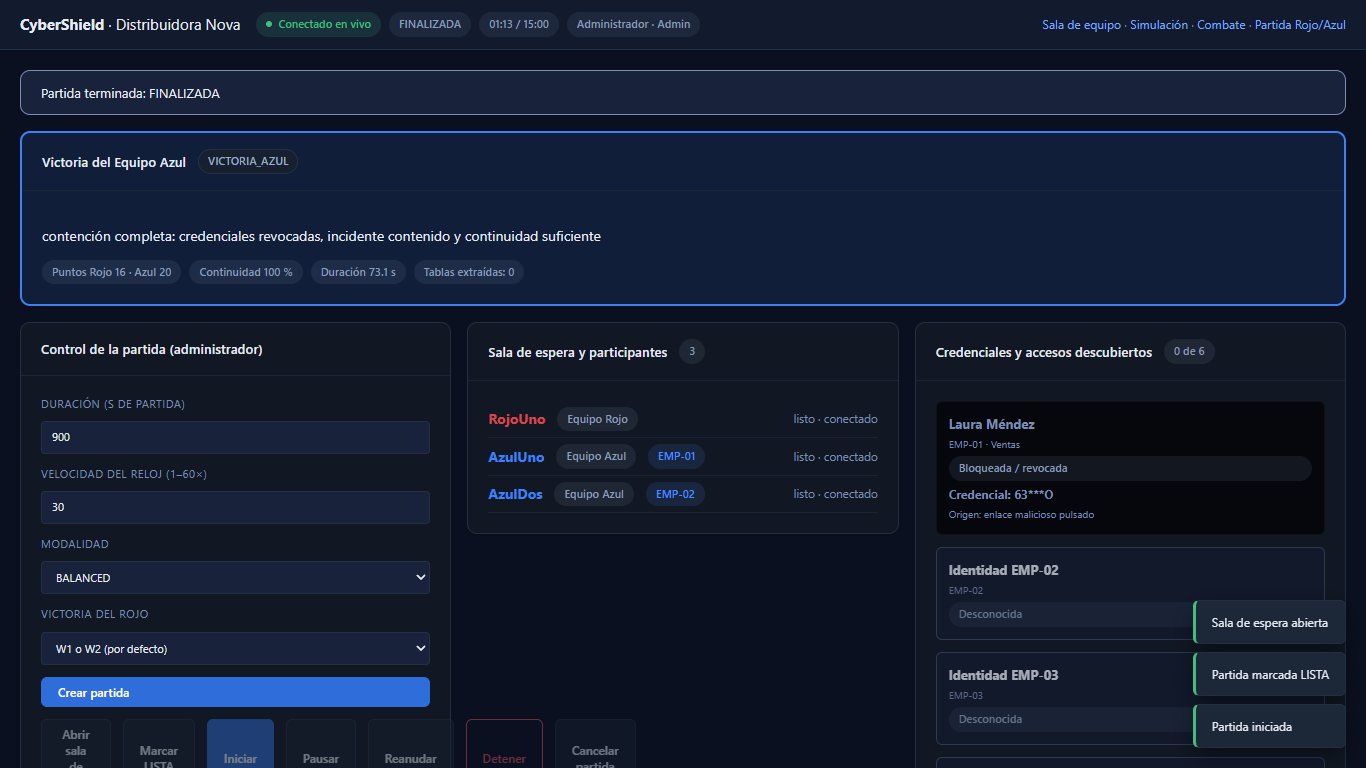
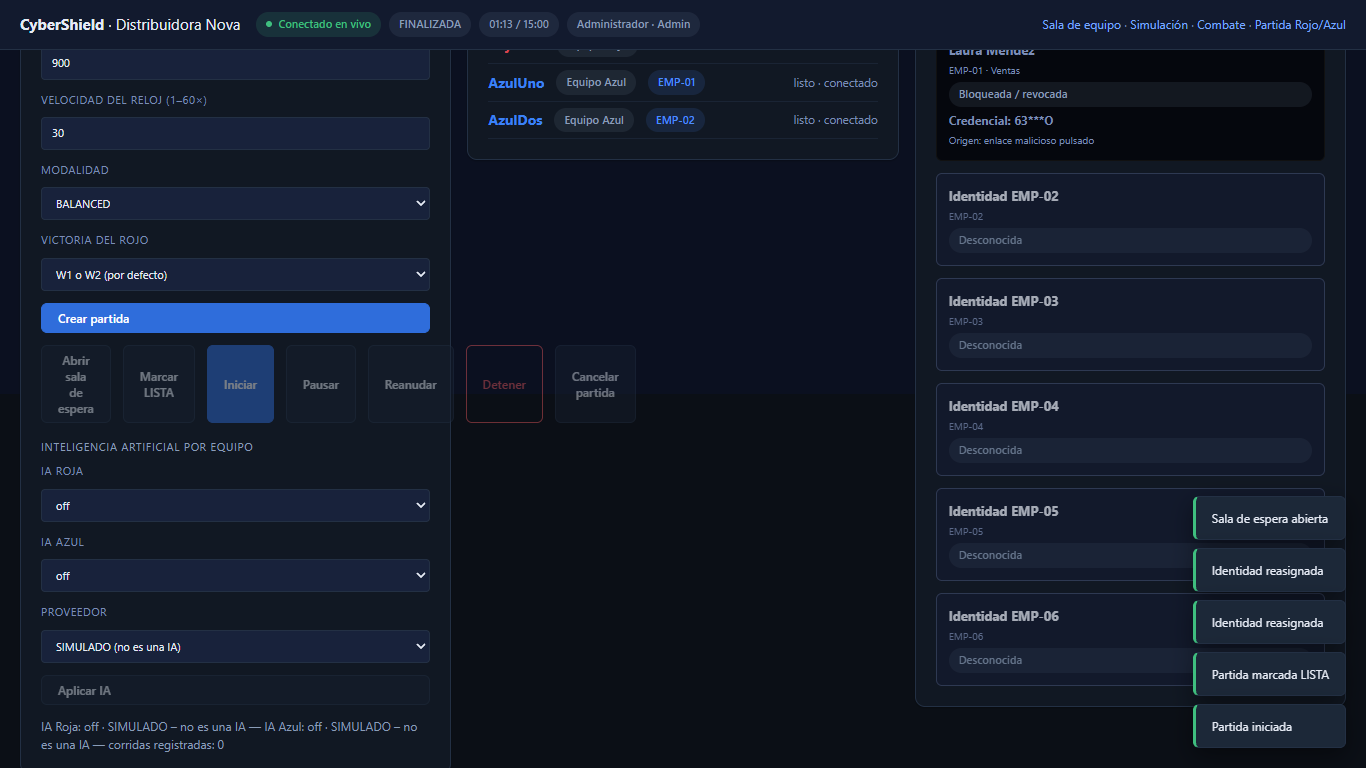
feat: mensajeria, tareas, misiones derivadas, catalogo y reasignacion en la UI, capa Wazuh separada; correccion de WRONG_TEAM en acciones compartidas

diff --git a/ui/nova/nova.js b/ui/nova/nova.js
@@ -56,7 +56,7 @@
       : e.estado === "LISTA" ? "Todo listo. Solo el administrador puede iniciar la partida." : e.estado === "EN_CURSO" ? "Partida EN CURSO." : e.estado === "PAUSADA" ? "⏸ PARTIDA PAUSADA: el reloj está detenido y las acciones están bloqueadas." : "Partida terminada: " + e.estado;
     visible("#p-admin", S.rol === "ADMIN");
     if (S.rol === "ADMIN") pintarAdmin(e);
-    pintarSala(e); pintarVictoria(e);
+    pintarSala(e); pintarVictoria(e); pintarCatalogo(e); pintarEquipo(e);
     visible("#p-rojo-cred", ["RED", "ADMIN"].includes(S.rol) && !!e.rojo); visible("#p-rojo-op", S.rol === "RED" && !!e.rojo);
     if (e.rojo) pintarRojo(e);
     const az = S.rol === "BLUE" && e.azul; for (const id of ["#p-azul-id", "#p-azul-bandeja", "#p-azul-aprob", "#p-azul-alertas"]) visible(id, !!az);
@@ -85,11 +85,31 @@
   $("#b-ia").addEventListener("click", () => { const tipo = $("#ia-prov").value; const prov = tipo === "ollama" ? { tipo, endpoint: $("#ia-endpoint").value.trim(), modelo: $("#ia-modelo").value.trim() } : { tipo };
     intentar(() => api("POST", "/api/nova/ia/config", { RED: { modo: $("#ia-rojo-modo").value, proveedor: prov }, BLUE: { modo: $("#ia-azul-modo").value, proveedor: prov } }), "IA configurada"); });
 
+  // ── Catálogo (admin), misiones y mensajes ───────────────────────────────────────────────────────
+  let mostrar = false;
+  function pintarCatalogo(e) {
+    visible("#p-catalogo", S.rol === "ADMIN" && !!e.catalogo); if (!(S.rol === "ADMIN" && e.catalogo)) return;
+    const c = $("#catalogo"); c.textContent = ""; e.catalogo.forEach((x) => { const f = el("div", "cat"); f.append(el("span", "", `${x.id} · ${x.nombre} (${x.depto})`), el("span", "", `${x.estado}${x.debil ? " · débil" : ""}`), el("b", "", mostrar ? x.credencial : x.credencial.slice(0, 2) + "***" + x.credencial.slice(-1))); c.append(f); });
+    $("#b-mostrar").textContent = mostrar ? "Ocultar valores" : "Mostrar valores";
+  }
+  $("#b-mostrar").addEventListener("click", () => { mostrar = !mostrar; pintarCatalogo(S.est); });
+  function pintarEquipo(e) {
+    const datos = S.rol === "RED" ? e.rojo : S.rol === "BLUE" ? e.azul : null; visible("#p-misiones", !!datos); visible("#p-msg", !!datos); if (!datos) return;
+    const m = $("#misiones"); m.textContent = ""; (datos.misiones || []).forEach((x) => { const f = el("div", "mis"); f.append(el("span", "", x.titulo), el("span", "chip sin-punto " + (x.estado === "COMPLETADA" ? "chip-ok" : x.estado === "EN_PROGRESO" ? "chip-aviso" : "chip-neutro"), x.estado)); m.append(f); });
+    const ms = $("#msgs"); ms.textContent = ""; (datos.mensajes || []).forEach((x) => ms.append(el("div", "", `${x.autor}: ${x.texto}`))); if (!(datos.mensajes || []).length) ms.append(el("div", "vacio-eq", "Sin mensajes todavía."));
+    visible("#form-tarea", S.rol === "BLUE"); const t = $("#tareas"); t.textContent = "";
+    (datos.tareas || []).forEach((x) => { const d = el("div", "ap"); d.append(el("b", "", `${x.id} · ${x.titulo} · ${x.estado}`), el("small", "", "Asignada a " + x.asignado));
+      const sig = { PENDIENTE: "EN_PROGRESO", EN_PROGRESO: "ESPERANDO_APROBACION", ESPERANDO_APROBACION: "COMPLETADA" }[x.estado]; if (sig) { const b = el("button", "boton", "Pasar a " + sig.replace("_", " ")); b.addEventListener("click", () => acc("set_task_status", { task_id: x.id, estado: sig })); d.append(b); } t.append(d); });
+  }
+  $("#form-msg").addEventListener("submit", async (ev) => { ev.preventDefault(); const t = $("#m-texto").value.trim(); if (!t) return; $("#m-texto").value = ""; await acc("message_team", { texto: t }); });
+  $("#form-tarea").addEventListener("submit", async (ev) => { ev.preventDefault(); const t = $("#t-titulo").value.trim(); if (!t) return; $("#t-titulo").value = ""; await acc("assign_task", { titulo: t }, "Tarea creada"); });
+
   // ── Sala / participantes ────────────────────────────────────────────────────────────────────────
   function pintarSala(e) {
     const c = $("#lista-part"); c.textContent = ""; $("#n-part").textContent = String((e.participantes || []).length);
     (e.participantes || []).forEach((p) => { const f = el("div", "part " + (p.equipo === "RED" ? "rojo" : p.equipo === "BLUE" ? "azul" : "")); f.append(el("b", "", p.nombre), el("span", "chip chip-neutro sin-punto", NOMBRE_ROL[p.equipo] || p.equipo));
-      if (p.identidad) f.append(el("span", "chip chip-info sin-punto", p.identidad)); f.append(el("small", "", (p.listo ? "listo" : "no listo") + " · " + (p.conectado ? "conectado" : "desconectado"))); c.append(f); });
+      if (p.identidad) f.append(el("span", "chip chip-info sin-punto", p.identidad));
+      if (S.rol === "ADMIN" && p.equipo === "BLUE" && ["SALA_DE_ESPERA", "LISTA"].includes(e.estado)) { const sel = el("select"); sel.setAttribute("aria-label", "Reasignar identidad de " + p.nombre); ["EMP-01", "EMP-02", "EMP-03", "EMP-04", "EMP-05", "EMP-06"].forEach((i) => { const o = el("option", "", i); o.value = i; sel.append(o); }); sel.value = p.identidad; sel.addEventListener("change", () => intentar(() => api("POST", "/api/nova/reasignar", { jugador: p.nombre, identidad: sel.value }), "Identidad reasignada")); f.append(sel); } f.append(el("small", "", (p.listo ? "listo" : "no listo") + " · " + (p.conectado ? "conectado" : "desconectado"))); c.append(f); });
     if (!e.participantes || !e.participantes.length) c.append(el("div", "vacio-eq", "Todavía no hay participantes."));
     const yo = (e.participantes || []).find((p) => p.nombre === S.nombre);
     visible("#b-unirse", !!S.token && ["RED", "BLUE"].includes(S.rol) && !yo && ["SALA_DE_ESPERA", "LISTA", "EN_CURSO", "PAUSADA"].includes(e.estado));
@@ -121,6 +141,7 @@
     ev.preventDefault(); const a = $("#op-accion").value; const p = {};
     if (!["scan_directory", "request_elevation", "export_database"].includes(a)) p.identidad_id = $("#op-ident").value;
     if (a === "send_email") { p.plantilla = $("#op-plant").value; p.cuerpo = $("#op-cuerpo").value; }
+    const obj = $("#op-obj").value, est = $("#op-estr").value; if (obj || est) p.meta = { objetivo: obj, estrategia: est };
     if (a === "request_elevation") p.motivo = $("#op-cuerpo").value; if (a === "guess_credential") p.candidate_value = $("#op-cand").value.trim().toUpperCase(); if (a === "extract_table") p.tabla = $("#op-tabla").value;
     const r = await api("POST", "/api/nova/accion", { action_type: a, params: p, idempotency_key: "op-" + Date.now() + Math.random().toString(36).slice(2) }, true); const d = await r.json();
     $("#op-resultado").textContent = r.ok ? "Operación aceptada por el motor." + (d.data && d.data.acierto != null ? (d.data.acierto ? " ¡Credencial válida!" : " Credencial incorrecta.") : "") : "Rechazada por el motor: " + d.mensaje + " (" + d.reject_reason + ")";

diff --git a/ui/nova/index.html b/ui/nova/index.html
@@ -94,6 +94,8 @@
           <label class="campo" id="op-cuerpo-w" hidden><span>Texto del correo / motivo (sin enlaces web)</span><input id="op-cuerpo" maxlength="300"></label>
           <label class="campo" id="op-cand-w" hidden><span>Credencial candidata (5 dígitos y una letra)</span><input id="op-cand" maxlength="6" placeholder="p. ej. 12345A"></label>
           <label class="campo" id="op-tab-w" hidden><span>Tabla</span><select id="op-tabla"></select></label>
+          <label class="campo"><span>Objetivo (para el registro)</span><select id="op-obj"><option value="">—</option><option>consultar_ventas</option><option>consultar_compras</option><option>consultar_inventario</option><option>consultar_clientes</option><option>consultar_reportes_financieros</option><option>info_administrativa</option><option>extraer_tabla</option><option>copia_bd</option></select></label>
+          <label class="campo"><span>Estrategia (para el registro)</span><select id="op-estr"><option value="">—</option><option>solicitud_legitima</option><option>ingenieria_social</option><option>suplantacion</option><option>uso_credencial_expuesta</option><option>adivinacion</option><option>prompt_injection</option><option>permisos_insuficientes</option></select></label>
           <button class="boton boton-primario" type="submit">Ejecutar operación</button>
         </form>
         <p class="nota-tarjeta" id="op-resultado" role="status"></p>
@@ -119,6 +121,21 @@
       <div class="tarjeta-cab"><h3>Alertas, incidentes y acciones defensivas</h3></div>
       <div class="tarjeta-cuerpo"><div id="az-alertas"></div><div id="az-inc"></div><div class="sub-titulo">Acciones sobre identidades</div><div id="az-ident-acc" class="acciones-form"></div>
         <div id="ia-azul" hidden><div class="sub-titulo">Asistente de IA (Azul)</div><div class="acciones-form"><button class="boton" id="b-prop-azul">Pedir veredicto a la IA</button></div><div id="prop-azul"></div></div></div>
+    </section>
+
+    <section class="tarjeta" id="p-catalogo" hidden>
+      <div class="tarjeta-cab"><h3>Catálogo de identidades y credenciales (administrador)</h3><button class="boton" id="b-mostrar">Mostrar valores</button></div>
+      <div class="tarjeta-cuerpo sin-relleno" id="catalogo"></div>
+    </section>
+    <section class="tarjeta" id="p-misiones" hidden>
+      <div class="tarjeta-cab"><h3>Misiones de mi equipo</h3></div>
+      <div class="tarjeta-cuerpo" id="misiones"></div>
+    </section>
+    <section class="tarjeta" id="p-msg" hidden>
+      <div class="tarjeta-cab"><h3>Mensajes del equipo y tareas</h3></div>
+      <div class="tarjeta-cuerpo"><div id="msgs" class="chat-eq"></div>
+        <form id="form-msg" class="form-chat" autocomplete="off"><input id="m-texto" maxlength="300" placeholder="Escribe a tu equipo" aria-label="Mensaje al equipo"><button class="boton boton-primario" type="submit">Enviar</button></form>
+        <div id="tareas"></div><form id="form-tarea" class="form-chat" hidden autocomplete="off"><input id="t-titulo" maxlength="120" placeholder="Nueva tarea de investigación" aria-label="Título de la tarea"><button class="boton" type="submit">Crear tarea</button></form></div>
     </section>
 
     <!-- Espectador / todos -->

diff --git a/ui/nova/nova.css b/ui/nova/nova.css
@@ -21,3 +21,6 @@ main { padding: var(--p-e5); } .entrar { max-width: 520px; margin: var(--p-e8) a
 .campo input, .campo select { background: #18223b; color: #e6ebf5; border: 1px solid var(--p-borde); border-radius: var(--p-r-sm); padding: 7px 10px; font: inherit; width: 100%; box-sizing: border-box; }
 .campo > span { display: block; margin-bottom: 4px; font-size: var(--p-t-xs); letter-spacing: .05em; text-transform: uppercase; color: #7c8db5; }
 .cat { display: grid; grid-template-columns: 1fr 1fr 1fr; gap: 4px var(--p-e3); font-size: var(--p-t-sm); padding: 6px 0; border-bottom: 1px solid var(--p-borde-suave); }
+.chat-eq { max-height: 180px; overflow: auto; border: 1px solid var(--p-borde); border-radius: var(--p-r-md); padding: var(--p-e3); background: #121a2e; display: grid; gap: 4px; margin-bottom: var(--p-e3); font-size: var(--p-t-sm); }
+.form-chat { display: flex; gap: var(--p-e2); margin-bottom: var(--p-e3); } .form-chat input { flex: 1; background: #18223b; color: #e6ebf5; border: 1px solid var(--p-borde); border-radius: var(--p-r-sm); padding: 7px 10px; }
+.mis { display: flex; gap: var(--p-e3); align-items: center; padding: 6px 0; border-bottom: 1px solid var(--p-borde-suave); } .mis span:first-child { flex: 1; }

diff --git a/src/lab/nova/motor.py b/src/lab/nova/motor.py
@@ -40,9 +40,10 @@ TRANS_ALERTA = {"NUEVA": {"EN_ANALISIS"}, "EN_ANALISIS": {"ASIGNADA", "FALSO_POS
                 "CONTENIDA": {"RESUELTA"}, "RESUELTA": {"CERRADA"}, "FALSO_POSITIVO": {"CERRADA"}, "CERRADA": set()}
 TRANS_APROB = {"PENDIENTE": {"APROBADA", "RECHAZADA", "INFO_SOLICITADA", "ESCALADA", "EXPIRADA"}, "INFO_SOLICITADA": {"APROBADA", "RECHAZADA", "ESCALADA", "EXPIRADA"},
                "ESCALADA": {"APROBADA", "RECHAZADA", "EXPIRADA"}}
+TRANS_TAREA = {"PENDIENTE": {"EN_PROGRESO", "CANCELADA"}, "EN_PROGRESO": {"ESPERANDO_APROBACION", "COMPLETADA", "CANCELADA"}, "ESPERANDO_APROBACION": {"COMPLETADA", "RECHAZADA", "CANCELADA"}}
 EQUIPOS = ("RED", "BLUE", "ADMIN", "SPECTATOR")
 ACCIONES_ROJO = {"send_email", "scan_directory", "guess_credential", "use_credential", "query_resource", "extract_table", "export_database", "request_elevation", "respond_info", "message_team"}
-ACCIONES_AZUL = {"classify_email", "report_email", "open_email", "view_link", "click_link", "risk_action", "revoke_credential", "suspend_identity", "block_link", "contain_incident",
+ACCIONES_AZUL = {"assign_task", "set_task_status", "classify_email", "report_email", "open_email", "view_link", "click_link", "risk_action", "revoke_credential", "suspend_identity", "block_link", "contain_incident",
                  "approve_request", "reject_request", "request_more_info", "escalate", "set_alert_status", "message_team", "allow"}
 CONFIG_DEFECTO = {"duration_s": 720, "round_s": 60, "guess_attempts_per_round": 3, "guess_attempts_per_match": 12, "guess_cooldown_s": 20, "guess_lockout_after_fails": 3, "lockout_s": 90,
                   "detect_prob_fail": 0.6, "min_continuity": 0.6, "abuse_policy": "empate", "approval_ttl_s": 90, "elevation_grant_s": 120, "emails_per_round": 3, "scans_per_round": 2,
@@ -148,6 +149,7 @@ class NovaPartida:
         self.puntos = {"RED": 0, "BLUE": 0}
         self.resultado = None
         self.legitimas = {"entregadas": 0, "servidas": 0, "resueltas": 0}
+        self.tareas, self.mensajes = {}, []
         self.seq = 0
         self.db = sqlite3.connect(str(db), check_same_thread=False)
         self.db.executescript("""CREATE TABLE IF NOT EXISTS nova_events(match_id TEXT, seq INT, ts_match_ms INT, ts_real TEXT, type TEXT, actor TEXT, target TEXT, result TEXT,
@@ -366,11 +368,12 @@ class NovaPartida:
                 if self.estado != "EN_CURSO":
                     raise ErrorNova(409, "La partida no está en curso" + (" (en pausa)" if self.estado == "PAUSADA" else ""), "MATCH_NOT_RUNNING")
                 equipo = actor.get("team")
-                if (tipo in ACCIONES_ROJO and equipo != "RED" and equipo != "ADMIN") or (tipo in ACCIONES_AZUL and equipo not in ("BLUE", "ADMIN")) or (tipo not in ACCIONES_ROJO | ACCIONES_AZUL):
+                permitido = (tipo in ACCIONES_ROJO and equipo in ("RED", "ADMIN")) or (tipo in ACCIONES_AZUL and equipo in ("BLUE", "ADMIN"))
+                if not permitido:
                     raise ErrorNova(403, "Ese equipo no puede ejecutar esa acción", "WRONG_TEAM")
                 data = getattr(self, "_h_" + tipo)(accion)
                 r = {"ok": True, "result": "OK", "reject_reason": None, "mensaje": "", "data": data or {}, "action_id": aid}
-                self._ev("action.executed", {"kind": actor.get("kind", "human"), "team": equipo, "label": actor.get("user")}, {"kind": "action", "id": aid}, vis=["ADMIN"], data={"action_type": tipo})
+                self._ev("action.executed", {"kind": actor.get("kind", "human"), "team": equipo, "label": actor.get("user")}, {"kind": "action", "id": aid}, vis=["ADMIN"], data={"action_type": tipo, "meta": {k: str(v)[:120] for k, v in ((accion.get("params") or {}).get("meta") or {}).items()} if isinstance((accion.get("params") or {}).get("meta"), dict) else None})
             except ErrorNova as ex:
                 r = {"ok": False, "result": "DENIED" if ex.motivo != "INVALID_SCHEMA" else "INVALID", "reject_reason": ex.motivo, "mensaje": ex.mensaje, "data": {}, "action_id": aid}
                 self._ev("action.rejected", {"kind": actor.get("kind", "human"), "team": actor.get("team"), "label": actor.get("user")}, {"kind": "action", "id": aid}, result=r["result"],
@@ -558,6 +561,10 @@ class NovaPartida:
         return {}
 
     def _h_message_team(self, a):
+        txt = str(a.get("params", {}).get("texto", "")).strip()[:300]
+        if not txt:
+            raise ErrorNova(400, "El mensaje está vacío", "INVALID_SCHEMA")
+        self.mensajes.append({"id": len(self.mensajes) + 1, "equipo": a["actor"].get("team"), "autor": a["actor"].get("user"), "texto": txt, "ts_s": self.t_s()})
         self._ev("message.sent", {"kind": a["actor"].get("kind", "human"), "team": a["actor"].get("team"), "label": a["actor"].get("user")}, vis=["ADMIN", a["actor"].get("team", "ADMIN")], data={"texto": str(a.get("params", {}).get("texto", ""))[:300]})
         return {}
 
@@ -725,6 +732,27 @@ class NovaPartida:
             self.puntos["BLUE"] -= 3       # descartar un ataque real como falso positivo penaliza
         return {}
 
+    def _h_assign_task(self, a):
+        p = a.get("params", {})
+        titulo = str(p.get("titulo") or "").strip()[:120]
+        if not titulo:
+            raise ErrorNova(400, "La tarea necesita un título", "INVALID_SCHEMA")
+        tid = "TK-" + str(len(self.tareas) + 1).zfill(3)
+        self.tareas[tid] = {"id": tid, "titulo": titulo, "asignado": p.get("asignado") or a["actor"].get("user"), "estado": "PENDIENTE", "ts_s": self.t_s()}
+        self._ev("task.created", {"kind": "human", "team": "BLUE", "label": a["actor"].get("user")}, {"kind": "task", "id": tid}, vis=["ADMIN", "BLUE"], data={"titulo": titulo})
+        return {"task_id": tid}
+
+    def _h_set_task_status(self, a):
+        t = self.tareas.get(a.get("params", {}).get("task_id"))
+        nuevo = a.get("params", {}).get("estado")
+        if not t:
+            raise ErrorNova(404, "Tarea desconocida", "UNKNOWN_TARGET")
+        if nuevo not in TRANS_TAREA.get(t["estado"], set()):
+            raise ErrorNova(409, f"Transición de tarea no válida: {t['estado']} → {nuevo}", "INVALID_TRANSITION")
+        t["estado"] = nuevo
+        self._ev("task.status_changed", {"kind": "human", "team": "BLUE", "label": a["actor"].get("user")}, {"kind": "task", "id": t["id"]}, vis=["ADMIN", "BLUE"], data={"estado": nuevo})
+        return {}
+
     def _h_allow(self, a):
         return {}
 
@@ -886,7 +914,24 @@ class NovaPartida:
         iid = p.get("identidad")
         return {"identidad": {**self.identidades[iid], "estado_credencial": self.creds[iid]["estado"]} if iid else None,
                 "correos": [e for e in self.emails.values() if e["para"] == iid], "alertas": list(self.alertas.values()), "incidentes": list(self.incidentes.values()),
-                "aprobaciones": list(self.aprobaciones.values())}
+                "aprobaciones": list(self.aprobaciones.values()), "tareas": list(self.tareas.values()), "mensajes": [x for x in self.mensajes if x["equipo"] == "BLUE"][-30:], "misiones": self.misiones("BLUE")}
+
+    def misiones(self, equipo):
+        """Misiones del equipo, con estado DERIVADO del estado real del motor (nada se marca a mano): PENDIENTE → DISPONIBLE → EN_PROGRESO → COMPLETADA."""
+        tipos = {e["type"] for e in self.eventos_lista}
+        creds_c = [i for i, c in self.creds.items() if c["estado"] in ("EXPUESTA", "COMPROMETIDA")]
+        rev = [i for i, c in self.creds.items() if c["estado"] in ("SUSPENDIDA", "REVOCADA")]
+        if equipo == "RED":
+            m = [("M-R1", "Identificar identidades del directorio", any(v != "DESCONOCIDA" for v in self.rojo_estado.values()), "resource.queried" in tipos),
+                 ("M-R2", "Obtener una credencial válida", bool(self.rojo_conoce), "email.sent_by_red" in tipos or "credential.guess_attempt" in tipos),
+                 ("M-R3", "Extraer la tabla protegida reportes_financieros", "reportes_financieros" in self.extraido, bool(self.rojo_conoce)),
+                 ("M-R4", "Conseguir la copia completa de la base", len(self.extraido) == len(E.TABLAS), any(a["estado"] == "PENDIENTE" and not a["legitima"] for a in self.aprobaciones.values()))]
+        else:
+            m = [("M-B1", "Reportar un correo del Rojo", any(e["reportado"] and e["origen"] == "RED" for e in self.emails.values()), any(e["origen"] == "RED" for e in self.emails.values())),
+                 ("M-B2", "Revocar o suspender toda credencial comprometida", bool(rev) and not creds_c, bool(creds_c)),
+                 ("M-B3", "Contener el incidente", bool(self.incidentes) and all(i["estado"] in ("CONTENIDO", "CERRADO") for i in self.incidentes.values()), bool(self.incidentes)),
+                 ("M-B4", "Atender las solicitudes legítimas (continuidad ≥ umbral)", self.legitimas["entregadas"] > 0 and self.continuidad() >= self.config["min_continuity"] and self.legitimas["resueltas"] == self.legitimas["entregadas"], self.legitimas["entregadas"] > 0)]
+        return [{"id": i, "titulo": t, "estado": "COMPLETADA" if hecho else "EN_PROGRESO" if prog else "DISPONIBLE"} for i, t, hecho, prog in m]
 
     def catalogo_admin(self):
         """El administrador ve TODO el catálogo, con el valor descifrado solo aquí (nunca en logs ni eventos)."""

diff --git a/e2e/test_nova_ui.py b/e2e/test_nova_ui.py
@@ -74,6 +74,17 @@ def main(ver=False, capturas=True):
         esperar_texto(pa, "#lista-part", "EMP-02")
         chk("la sala muestra a los 3 jugadores con su equipo, su identidad (Azul: EMP-01 y EMP-02) y si están listos", all(t in txt(pa, "#lista-part") for t in ("RojoUno", "AzulUno", "EMP-01", "EMP-02", "listo")))
         chk("el Rojo no ve el panel del administrador ni el Azul el panel Rojo (cada rol su interfaz)", pr.is_hidden("#p-admin") and p1.is_hidden("#p-rojo-op") and p1.is_visible("#p-azul-bandeja") and pr.is_hidden("#p-azul-bandeja"))
+        chk("el administrador ve el catálogo de 6 identidades con la credencial enmascarada y puede mostrarla; el Rojo y el Azul no tienen ese panel",
+            pa.locator("#catalogo .cat").count() == 6 and "***" in txt(pa, "#catalogo") and pr.is_hidden("#p-catalogo") and p1.is_hidden("#p-catalogo"))
+        pa.click("#b-mostrar")
+        chk("«Mostrar valores» revela las credenciales (formato 5 dígitos + letra) y EMP-04 es la débil", "***" not in txt(pa, "#catalogo") and "12345A" in txt(pa, "#catalogo") and "débil" in txt(pa, "#catalogo"))
+        pa.click("#b-mostrar")
+        pa.locator("#lista-part .part", has_text="AzulDos").locator("select").select_option("EMP-06")
+        esperar_texto(pa, "#lista-part", "EMP-06")
+        esperar_texto(p2, "#az-ident", "EMP-06")
+        chk("el administrador reasigna la identidad de un Azul en la sala y el jugador la ve en su tarjeta «Mi identidad»", "Miguel Ortega" in txt(p2, "#az-ident"))
+        pa.locator("#lista-part .part", has_text="AzulDos").locator("select").select_option("EMP-02")
+        esperar_texto(pa, "#lista-part", "EMP-02")
         if capturas:
             pa.screenshot(path=str(SALIDA / "01_admin_sala_1366x768.png"))
         chk("el botón «Iniciar» está desactivado hasta que el administrador marque LISTA", pa.is_disabled("#b-iniciar"))
@@ -175,6 +186,14 @@ def main(ver=False, capturas=True):
         pa.click("#b-reanudar")
         esperar_texto(pr, "#chip-estado", "EN CURSO")
         pr.wait_for_selector("#ia-rojo:not([hidden])")
+        pr.fill("#m-texto", "Probemos primero el reconocimiento"); pr.press("#m-texto", "Enter")
+        esperar_texto(pr, "#msgs", "reconocimiento")
+        p1.fill("#t-titulo", "Revisar la bandeja"); p1.click("#form-tarea button")
+        esperar_texto(p1, "#tareas", "TK-001")
+        p1.locator("#tareas button", has_text="Pasar a EN PROGRESO").click()
+        esperar_texto(p1, "#tareas", "EN_PROGRESO")
+        chk("mensajería y tareas: el mensaje del Rojo no aparece en el Azul y la tarea avanza por su máquina de estados", "reconocimiento" not in txt(p1, "#msgs") and "EN_PROGRESO" in txt(p1, "#tareas"))
+        chk("las misiones de cada equipo se derivan del estado real (el Rojo parte con misiones disponibles, el Azul también)", "Identificar identidades" in txt(pr, "#misiones") and "Reportar un correo" in txt(p1, "#misiones") and "COMPLETADA" not in txt(pr, "#misiones"))
         pr.click("#b-prop-rojo")
         esperar_texto(pr, "#prop-rojo", "SIMULADO – no es una IA")
         chk("assist: la IA propone con la etiqueta «SIMULADO – no es una IA» y NO ejecuta hasta que el humano confirme", "Confirmar y ejecutar" in txt(pr, "#prop-rojo") and "IDENTIFICADA" not in txt(pr, "#creds"))

diff --git a/src/lab/test_nova.py b/src/lab/test_nova.py
@@ -300,6 +300,20 @@ def main():
     chk("determinismo: la misma semilla y las mismas acciones dan los mismos eventos, puntos y resultado", corrida() == corrida())
     chk("acciones mal formadas o de otro equipo se rechazan con motivo tipificado", m.ejecutar({"action_type": "extract_table"})["reject_reason"] == "INVALID_SCHEMA"
         and rojo(nueva(), "approve_request", approval_id="AP-001")["reject_reason"] == "WRONG_TEAM" and azul(nueva(), "guess_credential", identidad_id="EMP-01", candidate_value="12345A")["reject_reason"] == "WRONG_TEAM")
+    # ── mensajería, tareas y misiones (F08) ─────────────────────────────────────────────────────────
+    m = nueva()
+    chk("mensajería de equipo: el mensaje se guarda y solo lo ve su equipo", rojo(m, "message_team", texto="Probemos el correo de soporte")["ok"] and azul(m, "message_team", texto="Revisemos el buzón")["ok"]
+        and [x["texto"] for x in m.vista_azul("Azul1")["mensajes"]] == ["Revisemos el buzón"] and rojo(m, "message_team", texto="  ")["reject_reason"] == "INVALID_SCHEMA")
+    tk = azul(m, "assign_task", titulo="Revisar el correo sospechoso", asignado="Azul2")["data"]["task_id"]
+    chk("tareas: PENDIENTE → EN_PROGRESO → ESPERANDO_APROBACION → COMPLETADA sin saltos; el Rojo no puede crearlas", azul(m, "set_task_status", task_id=tk, estado="COMPLETADA")["reject_reason"] == "INVALID_TRANSITION"
+        and azul(m, "set_task_status", task_id=tk, estado="EN_PROGRESO")["ok"] and azul(m, "set_task_status", task_id=tk, estado="ESPERANDO_APROBACION")["ok"] and azul(m, "set_task_status", task_id=tk, estado="COMPLETADA")["ok"]
+        and rojo(m, "assign_task", titulo="x")["reject_reason"] == "WRONG_TEAM")
+    mi = {x["id"]: x["estado"] for x in m.misiones("RED")}
+    exponer(m, "EMP-05")
+    chk("las misiones se DERIVAN del estado real: no se marcan a mano (M-R2 pasa a COMPLETADA solo al tener una credencial)", mi["M-R2"] != "COMPLETADA" and {x["id"]: x["estado"] for x in m.misiones("RED")}["M-R2"] == "COMPLETADA")
+    chk("misiones del Azul: revocar lo comprometido y contener el incidente las completa", (azul(m, "revoke_credential", identidad_id="EMP-05"), azul(m, "contain_incident", incident_id=next(iter(m.incidentes))), True)[2]
+        and {x["id"]: x["estado"] for x in m.misiones("BLUE")}["M-B2"] == "COMPLETADA")
+
     # ── modalidades (D13): modifican parámetros reales y quedan congeladas ───────────────────────────
     mr, mb, mn = nueva(modalidad="RED_ADVANTAGE"), nueva(modalidad="BLUE_ADVANTAGE"), nueva()
     chk("las modalidades cuantifican parámetros reales distintos (intentos, cooldown, detección, retardo del clic)", (mr.config["guess_attempts_per_round"], mb.config["guess_attempts_per_round"], mn.config["guess_attempts_per_round"]) == (5, 2, 3)

diff --git a/server/nova.py b/server/nova.py
@@ -54,7 +54,7 @@ def _estado_publico(p, rol, nombre):
     if rol == "RED" or rol == "ADMIN":
         base["rojo"] = {"credenciales": p.vista_rojo(), "plantillas": list(E.PLANTILLAS_ROJO), "tablas": E.TABLAS, "patron": E.PATRON_CREDENCIAL,
                         "aprobaciones": [{k: v for k, v in a.items() if k != "recomendacion"} for a in p.aprobaciones.values() if a["equipo_solicitante"] == "RED"],
-                        "extraido": {t: len(f) for t, f in p.extraido.items()}}
+                        "extraido": {t: len(f) for t, f in p.extraido.items()}, "misiones": p.misiones("RED"), "mensajes": [x for x in p.mensajes if x["equipo"] == "RED"][-30:]}
     if rol == "BLUE" and nombre:
         base["azul"] = p.vista_azul(nombre)
     if rol == "ADMIN":
@@ -340,6 +340,22 @@ def registrar(app, ms=None):
             _emitir("nova_estado", {"estado": p.estado})
         return JSONResponse(r, status_code=200 if r["ok"] else (403 if r["reject_reason"] in ("WRONG_TEAM", "PERMISSION_DENIED", "NOT_YOUR_INBOX", "CREDENTIAL_NOT_KNOWN", "CREDENTIAL_UNUSABLE", "IDENTITY_LOCKED", "FORBIDDEN") else 409 if r["reject_reason"] in ("MATCH_NOT_RUNNING", "INVALID_TRANSITION", "INVALID_STATE")
                                                                   else 429 if r["reject_reason"] in ("COOLDOWN", "BUDGET_EXCEEDED") else 400))
+
+    @app.get("/api/nova/wazuh")
+    async def nova_wazuh(request: Request):
+        """Capa de observabilidad SEPARADA del juego (nunca influye en el resultado): SIMULADO con las alertas del motor en formato Wazuh; el real solo si
+        existe WAZUH_URL (en este laboratorio no hay instancia: NO_CONFIGURADO). Cada alerta lleva `source`."""
+        p = _E["p"]
+        rol = _rol(request)
+        if p is None:
+            return JSONResponse({"fuente_activa": "simulated", "estado": "SIMULADO", "alertas": []})
+        if rol == "RED":
+            return _err("El equipo Rojo no accede al SIEM", 403, "FORBIDDEN")
+        nivel = {"BAJA": 3, "MEDIA": 7, "ALTA": 10, "CRITICA": 13}
+        al = [{"id": a["id"], "timestamp": a["ts_s"], "rule": {"description": a["titulo"], "level": nivel.get(a["severidad"], 5), "groups": ["cybershield_lab", "nova"]}, "agent": {"name": "nova-" + (a["identidad"] or "base")},
+               "source": "simulated", "simulado": True, "etiqueta": "WAZUH SIMULADO"} for a in p.alertas.values()]
+        return JSONResponse({"fuente_activa": "simulated", "estado": "SIMULADO", "etiqueta": "WAZUH SIMULADO",
+                             "real": {"estado": "NO_CONFIGURADO" if not os.environ.get("WAZUH_URL") else "NO_VERIFICADO", "detalle": "no hay instancia de Wazuh en este laboratorio; no se simula una conexión real"}, "alertas": al})
 
     @app.get("/api/nova/eventos")
     async def nova_eventos(request: Request, after_seq: int = 0):

diff --git a/server/test_nova.py b/server/test_nova.py
@@ -132,6 +132,9 @@ def main():
         adm.post("/api/nova/ia/config", {"RED": {"modo": "assist", "proveedor": {"tipo": "ollama", "endpoint": E.url_ollama, "modelo": "falso-roto"}}})
         ro = pr(rojo, "RED")
         chk("un modelo roto (HTTP 500) da una corrida FALLIDA con error claro y la partida sigue", ro.status == 200 and ro["estado"] == "FALLIDA" and adm.get("/api/nova/estado")["estado"] == "EN_CURSO")
+        w = a1.get("/api/nova/wazuh")
+        chk("la capa Wazuh es separada y honesta: fuente SIMULADA etiquetada, real NO_CONFIGURADO, y el Rojo no accede", w.status == 200 and w["fuente_activa"] == "simulated" and w["real"]["estado"] == "NO_CONFIGURADO"
+            and all(x["source"] == "simulated" for x in w["alertas"]) and rojo.get("/api/nova/wazuh").status == 403)
         adm.post("/api/nova/detener", {})
         salud = Cliente(E.base).get("/api/ia/estado")
         chk("la API sigue sana tras todo el flujo", salud.status == 200)
